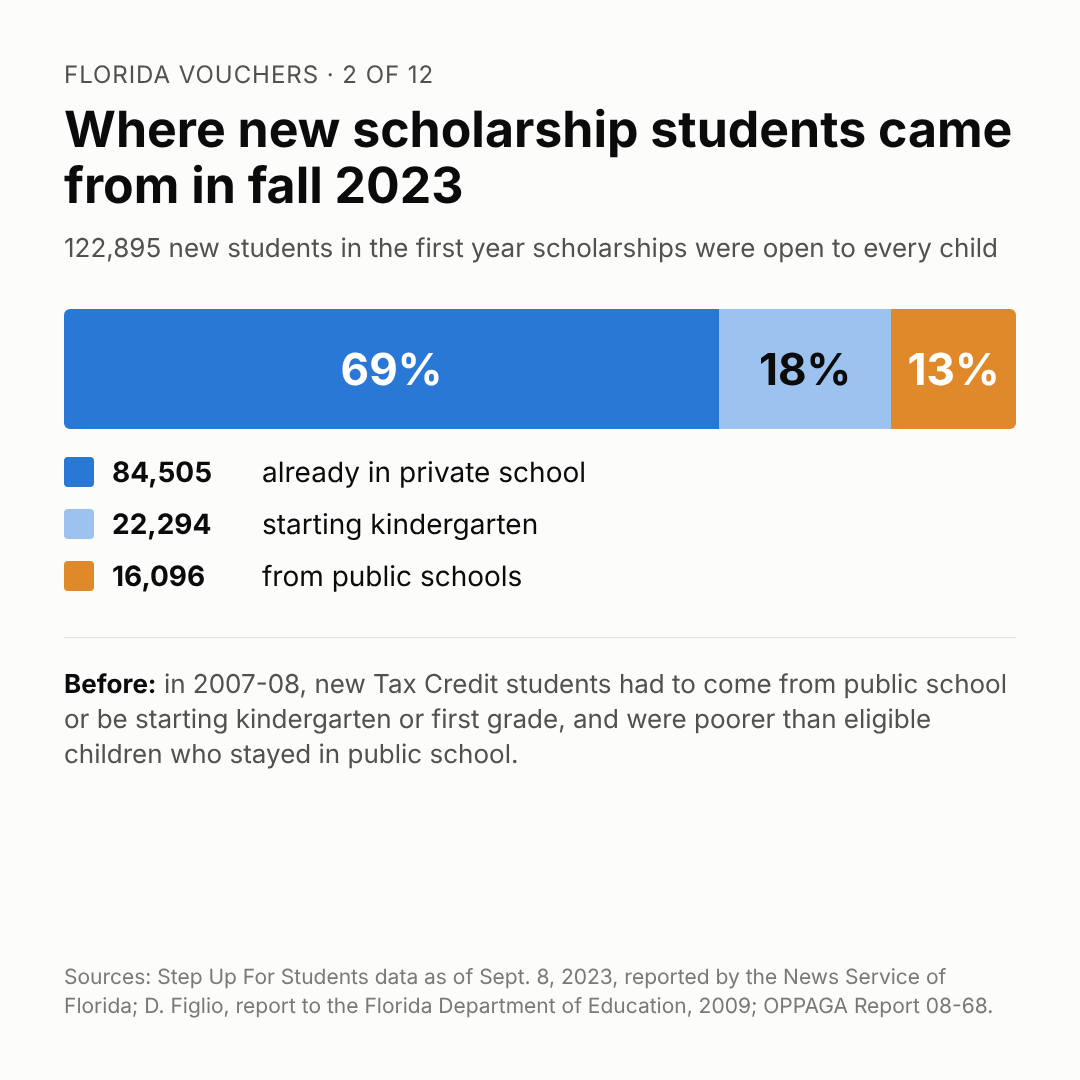
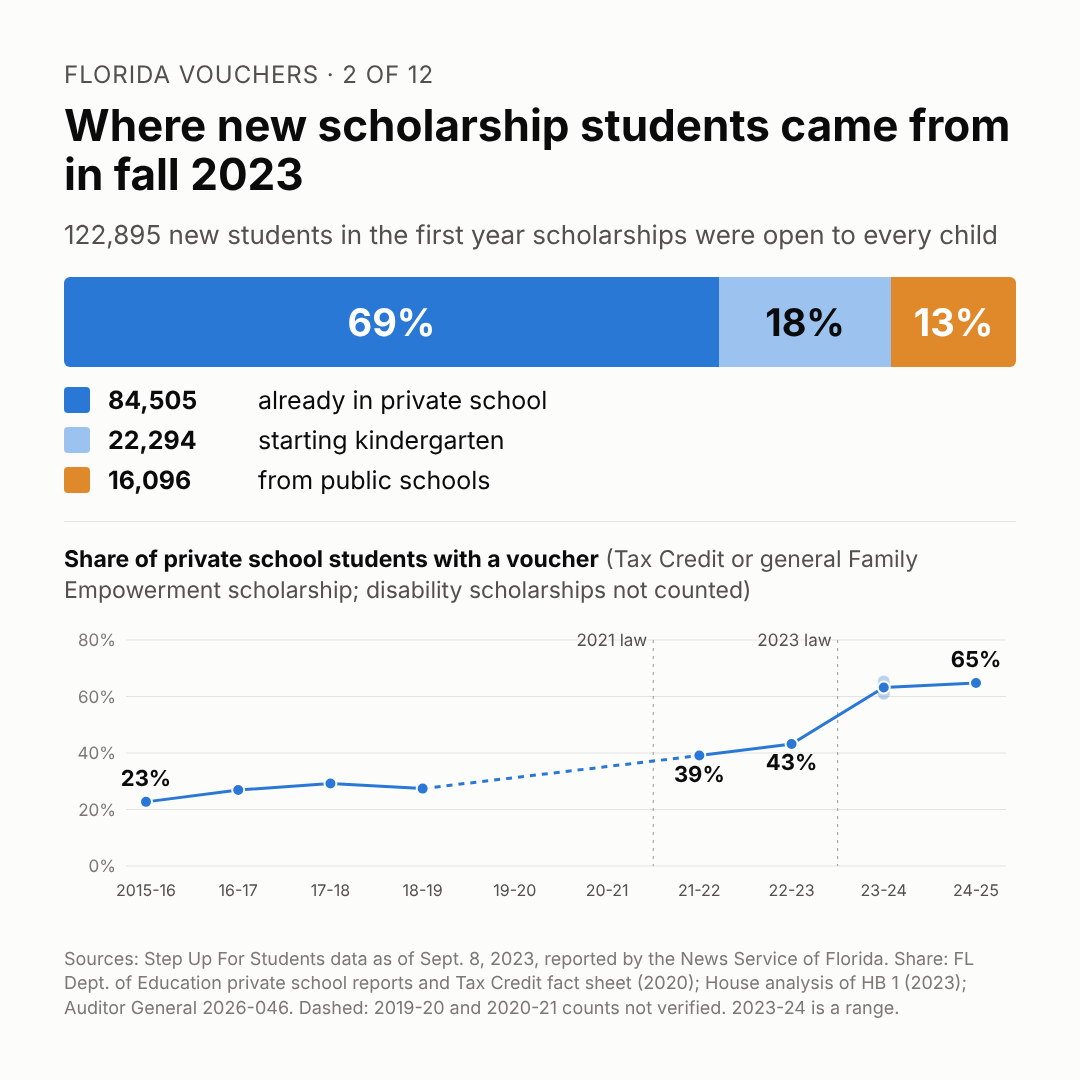
Post 2: running voucher share of private school students, text and chart
Claude-Session: https://claude.ai/code/session_01Tv8dvGSMcMCRhxNzj4GXHG

diff --git a/series/florida-vouchers/02-who-gets-vouchers/post.md b/series/florida-vouchers/02-who-gets-vouchers/post.md
@@ -37,6 +37,8 @@ Supporters and opponents of the law pointed to different numbers. Step Up, which
 
 Both numbers are correct. In its first year, the law moved few children out of public schools. Most new scholarships went to children whose families had been paying for private school without a state scholarship. In the terms of the money map in the first post, money moved more than children did: tuition that families had paid themselves was now paid by a scholarship.
 
+The share of private school students with a scholarship shows the change. In 2015-16, about 23 percent had a Tax Credit scholarship, according to Department of Education counts. By 2022-23, after a 2021 law raised the income limit, 43 percent had a Tax Credit or Family Empowerment scholarship. By 2024-25, about 65 percent did, according to the auditor general. The image with this post shows each year. These counts leave out the disability scholarship, because no record says how many of its students attend private schools.
+
 The children who do leave public schools have changed, too. A 2025 evaluation by Florida State University, required by state law, looked at students who left public schools for a Family Empowerment Scholarship in 2023-24. They were less likely to be poor than those who stayed: 42 percent qualified for free or reduced-price lunch, against 52 percent. Test scores were about the same. The study did not say why. In a 2025 Step Up survey, families who won a scholarship but did not use it most often cited no open seat at the school they wanted, tuition or fees beyond the scholarship, and transportation.
 
 The disability scholarship follows its own rules. It has no income test. A diagnosis from a doctor or psychologist qualifies a child, without a special-education plan from a school, according to a 2025 Florida Senate staff analysis. About 16 percent of Florida's public school students have a disability, according to the Department of Education. The scholarship grew from 74,446 students in 2022-23, according to the auditor general, to 163,242 in 2025-26, according to Senate staff, about three in ten of all scholarship students that year. The law caps the number of students, but children leaving public schools do not count against the cap, and lawmakers lifted it for 2023-24 when demand passed it.
@@ -109,6 +111,7 @@ Every source below was re-read on 22 Oct 2026 against the current text.
 | About 16 percent of public school students have a disability (2024-25) | DOE charter achievement report, p. 3: students with disabilities 458,609 of 2,852,240 = 16.08% ("SWD 458,609 16.08%"). Gifted students not included (DOE ESE slides, May 2025, slide 7: 448,482 SWD, no gifted category) |
 | 74,446 (2022-23) to 163,242 (2025-26); about three in ten | Auditor General 2026-046, Table 3 (74,446). CS/SB 318 analysis, p. 3: "163,242 students were funded through the FES-UA scholarship" of 560,935 total = 29.1% |
 | Cap; children from public schools exempt; lifted for 2023-24 | SB 4-C analysis, p. 4: cap 26,500 in 2022-23, plus 3% of ESE membership a year; exempt: students who "spent the prior school year in attendance at a Florida public school," former McKay students, VPK, foster, military. Ch. 2023-350 set the 2023-24 maximum at the number determined by the department and the scholarship organizations. Sen. Jay Collins: 8,839 students waiting (WLRN, Nov. 7, 2023) |
+| Share of private students with a scholarship: 23% (2015-16), 43% (2022-23), about 65% (2024-25) | See notes, 'Share of private school students... by year': 78,664 / 345,796; (100,025 + 92,232) / 445,067; (267,413 + 114,443 − 59,925) / 496,519 = 64.8% |
 | "Money moved more than children did" | Step Up count above: 84,505 of 122,895 new students (69%) had been in private school; 16,096 (13%) came from public schools. Interpretation, labeled as the map's terms |
 
 ---
